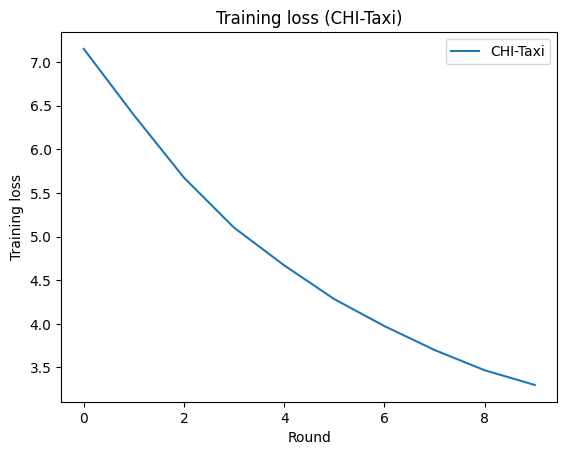
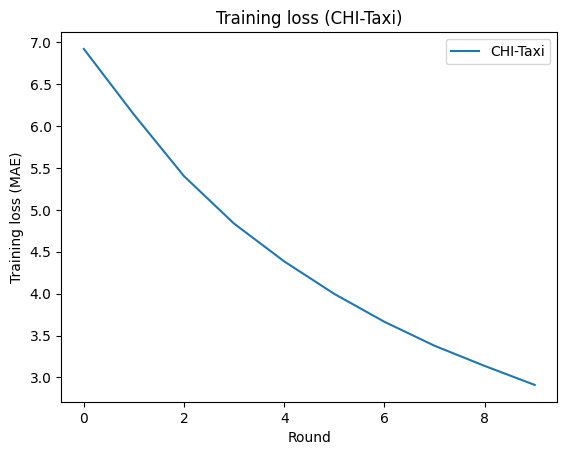
final baseline

diff --git a/test.py b/test.py
@@ -1,13 +1,12 @@
 """
 Federated LSTM-DSTGCRN — fixed per-client node-subset handling.
+Extended baseline to (1) log both MAE and RMSE and (2) optionally apply
+multi-head temporal self-attention before the GraphConvLSTM.
 
-How this fix works:
-- Global model has num_nodes = full N (all columns in trip CSV).
-- Clients are assigned node subsets (indices into 0..N-1).
-- Each client's dataset returns windows shaped [T_in, N_sub, F].
-- Before passing a batch to the model, we pad it to [B, T_in, N_full, F],
-  placing the client's node columns into their indices. All other node columns are zeros.
-- This lets every client and the server use identical model shapes so FedAvg aggregation works.
+Run example:
+python federated_lstm_dstgcrn_baseline.py --trip_csv CHI-taxi/tripdata_full.csv \
+  --dataset CHI-Taxi --rounds 10 --clients 3 --tin 12 --tout 3 \
+  --epochs_per_round 2 --batch_size 16 --use_attention 1
 """
 from __future__ import annotations
 import os, copy, math, json, argparse, random
@@ -61,6 +60,28 @@ class GraphConv(nn.Module):
         return self.lin(x_mp)
 
 # ================================================================
+# Optional: Multi-head temporal self-attention (per node)
+# ================================================================
+class TemporalMHA(nn.Module):
+    """Applies MHA along time for each node independently.
+    Input  x: [B,T,N,C] -> output [B,T,N,C]
+    Uses nn.MultiheadAttention with batch_first=True.
+    """
+    def __init__(self, dim: int, num_heads: int = 4, dropout: float = 0.0):
+        super().__init__()
+        self.mha = nn.MultiheadAttention(embed_dim=dim, num_heads=num_heads,
+                                         dropout=dropout, batch_first=True)
+        self.ln = nn.LayerNorm(dim)
+
+    def forward(self, x: torch.Tensor) -> torch.Tensor:
+        B, T, N, C = x.shape
+        x_ = x.permute(0, 2, 1, 3).reshape(B * N, T, C)  # [B*N,T,C]
+        out, _ = self.mha(x_, x_, x_, need_weights=False)
+        out = self.ln(out + x_)
+        out = out.reshape(B, N, T, C).permute(0, 2, 1, 3)  # [B,T,N,C]
+        return out
+
+# ================================================================
 # GraphConvLSTM cell
 # ================================================================
 class GraphConvLSTMCell(nn.Module):
@@ -95,11 +116,16 @@ class LSTMDSTGCRN(nn.Module):
         horizon: int = 3,
         num_layers: int = 1,
         emb_dim: int = 16,
+        use_attention: bool = False,
+        attn_heads: int = 4,
     ):
         super().__init__()
         self.num_nodes = num_nodes
         self.horizon = horizon
         self.adaptiveA = AdaptiveAdjacency(num_nodes, emb_dim)
+        self.use_attention = use_attention
+        if use_attention:
+            self.attn = TemporalMHA(dim=input_dim, num_heads=attn_heads)
 
         cells = []
         for l in range(num_layers):
@@ -115,12 +141,16 @@ class LSTMDSTGCRN(nn.Module):
             "cells": self.cells,
             "proj": self.proj,
         }
+        if use_attention:
+            self.modules_to_integrate["attn"] = self.attn
 
     def forward(self, x):
         # x: [B,T,N,C]
         B, T, N, C = x.shape
-        # model expects N == self.num_nodes
         assert N == self.num_nodes, f"Input N={N} but model expects {self.num_nodes}"
+        if self.use_attention:
+            x = self.attn(x)  # temporal self-attention per node
+
         A = self.adaptiveA()  # [N,N]
 
         hs = [x.new_zeros(B, N, c.hidden_dim) for c in self.cells]
@@ -243,18 +273,33 @@ def pad_batch_to_full(x_sub: torch.Tensor, subset_idx: List[int], N_full: int):
     return x_full, mask
 
 # ================================================================
-# Train / Eval helpers (adjusted to accept subset padding)
+# Train / Eval helpers (now compute MAE & RMSE)
 # ================================================================
+def _masked_mae(y_hat, y, mask=None):
+    if mask is None:
+        return (y_hat - y).abs().mean()
+    else:
+        abs_diff = (y_hat - y).abs() * mask
+        return abs_diff.sum() / mask.sum().clamp_min(1.0)
+
+
+def _masked_rmse(y_hat, y, mask=None):
+    if mask is None:
+        return torch.sqrt(((y_hat - y) ** 2).mean())
+    else:
+        sq = ((y_hat - y) ** 2) * mask
+        return torch.sqrt(sq.sum() / mask.sum().clamp_min(1.0))
+
+
 def train_one_epoch(model, loader, optimizer, device, subset_idx=None, N_full=None):
     model.train()
-    total_abs = 0.0
-    total_count = 0.0
+    total_loss = 0.0
+    total_count = 0
 
     for x, y in loader:
         if subset_idx is not None:
             x_full, mask = pad_batch_to_full(x, subset_idx, N_full)
             y_full, _ = pad_batch_to_full(y, subset_idx, N_full)
-            # Fix mask time dimension
             if mask.shape[1] != y_full.shape[1]:
                 mask = mask[:, :y_full.shape[1], :, :]
             x, y, mask = to_device(x_full, device), to_device(y_full, device), to_device(mask, device)
@@ -264,34 +309,28 @@ def train_one_epoch(model, loader, optimizer, device, subset_idx=None, N_full=No
 
         optimizer.zero_grad()
         y_hat = model(x)
-
-        if mask is None:
-            loss = F.l1_loss(y_hat, y)
-        else:
-            abs_diff = (y_hat - y).abs() * mask
-            loss = abs_diff.sum() / mask.sum()
-
+        loss = _masked_mae(y_hat, y, mask)
         loss.backward()
         nn.utils.clip_grad_norm_(model.parameters(), 5.0)
         optimizer.step()
 
-        total_abs += loss.item() * x.size(0)
+        total_loss += loss.item() * x.size(0)
         total_count += x.size(0)
 
-    return total_abs / total_count
+    return total_loss / max(total_count, 1)
 
 
 @torch.no_grad()
 def evaluate(model, loader, device, subset_idx=None, N_full=None):
     model.eval()
-    total_abs = 0.0
-    total_count = 0.0
+    total_mae = 0.0
+    total_rmse = 0.0
+    total_batches = 0
 
     for x, y in loader:
         if subset_idx is not None:
             x_full, mask = pad_batch_to_full(x, subset_idx, N_full)
             y_full, _ = pad_batch_to_full(y, subset_idx, N_full)
-            # Fix mask time dimension to match y_full / y_hat
             if mask.shape[1] != y_full.shape[1]:
                 mask = mask[:, :y_full.shape[1], :, :]
             x, y, mask = to_device(x_full, device), to_device(y_full, device), to_device(mask, device)
@@ -300,15 +339,15 @@ def evaluate(model, loader, device, subset_idx=None, N_full=None):
             x, y = to_device(x, device), to_device(y, device)
 
         y_hat = model(x)
-        if mask is None:
-            total_abs += (y_hat - y).abs().sum().item()
-            total_count += torch.prod(torch.tensor(y.shape)).item()
-        else:
-            abs_diff = (y_hat - y).abs() * mask
-            total_abs += abs_diff.sum().item()
-            total_count += mask.sum().item()
+        mae = _masked_mae(y_hat, y, mask)
+        rmse = _masked_rmse(y_hat, y, mask)
+        total_mae += mae.item()
+        total_rmse += rmse.item()
+        total_batches += 1
 
-    return total_abs / total_count if total_count > 0 else float('nan')
+    if total_batches == 0:
+        return {"mae": float("nan"), "rmse": float("nan")}
+    return {"mae": total_mae / total_batches, "rmse": total_rmse / total_batches}
 
 
 # ================================================================
@@ -318,6 +357,7 @@ def _copy_group(dst: nn.Module, src: nn.Module, group_name: str):
     dst_group = dst.modules_to_integrate[group_name]
     src_group = src.modules_to_integrate[group_name]
     dst_group.load_state_dict(src_group.state_dict())
+
 
 def selective_integration(local_model, global_model, val_loader, device, subset_idx: Optional[List[int]] = None, N_full: Optional[int] = None, groups=None):
     if groups is None:
@@ -330,7 +370,8 @@ def selective_integration(local_model, global_model, val_loader, device, subset_
     for g in groups:
         cand = copy.deepcopy(base)
         _copy_group(cand, global_model, g)
-        loss = evaluate(cand, val_loader, device, subset_idx=subset_idx, N_full=N_full)
+        metrics = evaluate(cand, val_loader, device, subset_idx=subset_idx, N_full=N_full)
+        loss = metrics["mae"]
         if loss < best_loss:
             best_loss, best_group = loss, g
 
@@ -353,7 +394,6 @@ class FLClient:
         self.cid = cid
         self.device = device
         self.cfg = cfg
-        # Each client **creates a model with full node count** to match server/global shape
         self.model = model_fn().to(device)
         self.train_loader = DataLoader(train_ds, batch_size=cfg.batch_size, shuffle=True, collate_fn=collate_batch)
         self.val_loader   = DataLoader(val_ds,   batch_size=cfg.batch_size, shuffle=False, collate_fn=collate_batch)
@@ -365,7 +405,6 @@ class FLClient:
         self.model.load_state_dict(global_model.state_dict())
 
     def integrate(self, global_model):
-        # selective integration uses validation loader but pads batches before eval
         self.model = selective_integration(self.model, global_model, self.val_loader, self.device, subset_idx=self.subset_idx, N_full=self.N_full)
 
     def train_local(self):
@@ -380,21 +419,20 @@ class FLClient:
     def n_test(self):  return len(self.test_loader.dataset)
 
     @torch.no_grad()
-    def test_mae(self):
+    def test_metrics(self):
         return evaluate(self.model, self.test_loader, self.device, subset_idx=self.subset_idx, N_full=self.N_full)
 
     @torch.no_grad()
-    def train_loss_eval(self):
+    def train_metrics(self):
         return evaluate(self.model, self.train_loader, self.device, subset_idx=self.subset_idx, N_full=self.N_full)
 
 class FLServer:
-    def __init__(self, model_fn, clients: List[FLClient], N_full: int):
+    def __init__(self, model_fn, N_full: int):
         self.global_model = model_fn()
-        self.clients = clients
         self.N_full = N_full
 
-    def distribute(self):
-        for c in self.clients:
+    def distribute(self, clients: List[FLClient]):
+        for c in clients:
             c.set_params_from(self.global_model)
 
     def aggregate_fedavg(self, states: List[Tuple[Dict, int]]):
@@ -417,6 +455,9 @@ def run_federated(
     device: str = None,
     save_dir: str = "./ckpts",
     epochs_per_round: int = 2,
+    batch_size: int = 16,
+    use_attention: int = 0,
+    attn_heads: int = 3,
 ):
     os.makedirs(save_dir, exist_ok=True)
     set_seed(42)
@@ -424,7 +465,6 @@ def run_federated(
 
     # infer N (nodes) and build node index list [0..N-1]
     tmp = pd.read_csv(trip_csv, nrows=1)
-    # assume 'timestamp' column present
     node_cols = [c for c in tmp.columns if c != "timestamp"]
     N_full = len(node_cols)
     node_indices = list(range(N_full))
@@ -432,12 +472,12 @@ def run_federated(
     # round-robin split nodes among clients
     chunks = [node_indices[i::num_clients] for i in range(num_clients)]
 
-    # model factory (input_dim=6 features as built in loader)
     def model_fn():
         return LSTMDSTGCRN(num_nodes=N_full, input_dim=6, hidden_dim=64,
-                           output_dim=1, horizon=output_len, num_layers=1, emb_dim=16)
+                           output_dim=1, horizon=output_len, num_layers=1, emb_dim=16,
+                           use_attention=bool(use_attention), attn_heads=attn_heads)
 
-    # build clients (each keeps only its node subset in datasets but creates full-size models)
+    # build clients
     clients: List[FLClient] = []
     for cid, subset in enumerate(chunks):
         full_ds = TripWeatherDataset(trip_csv, input_len, output_len, stride=1, node_subset=subset)
@@ -450,37 +490,45 @@ def run_federated(
         tr, va, te = torch.utils.data.random_split(
             full_ds, [n_tr, n_va, n_te], generator=torch.Generator().manual_seed(123 + cid)
         )
-        cfg = ClientConfig(id=cid, epochs=epochs_per_round, batch_size=32, lr=1e-3)
+        cfg = ClientConfig(id=cid, epochs=epochs_per_round, batch_size=batch_size, lr=1e-3)
         clients.append(FLClient(cid, model_fn, tr, va, te, cfg, device, subset_idx=subset, N_full=N_full))
 
-    server = FLServer(model_fn, clients, N_full=N_full)
+    server = FLServer(model_fn, N_full=N_full)
 
     # logs for paper-style
-    global_log = []     # [{"round": r, "global_mae": .., "global_loss": ..}, ...]
+    global_log = []     # [{round, global_mae, global_rmse, global_train_mae, global_train_rmse}, ...]
 
     for r in range(num_rounds):
         print(f"\n===== Round {r+1}/{num_rounds} | {dataset_name} =====")
 
         # send current global model
-        server.distribute()
+        server.distribute(clients)
 
         # client-side selective integration + local training
         for c in clients:
             c.integrate(server.global_model)
             c.train_local()
 
-        # Weighted global training loss (evaluate on each client's TRAIN set)
-        train_losses = [(c.train_loss_eval(), c.n_train()) for c in clients]
-        total_train = sum(n for _, n in train_losses)
-        global_train_loss = sum(l * n for l, n in train_losses) / total_train
+        # Weighted global training metrics (evaluate on each client's TRAIN set)
+        train_metrics = [(c.train_metrics(), c.n_train()) for c in clients]
+        total_train = sum(n for _, n in train_metrics)
+        global_train_mae = sum(m["mae"] * n for m, n in train_metrics) / total_train
+        global_train_rmse = sum(m["rmse"] * n for m, n in train_metrics) / total_train
 
-        # Evaluate test MAE per client
-        test_results = [(c.test_mae(), c.n_test()) for c in clients]
+        # Evaluate test metrics per client
+        test_results = [(c.test_metrics(), c.n_test()) for c in clients]
         total_test = sum(n for _, n in test_results)
-        global_mae = sum(mae * n for mae, n in test_results) / total_test
+        global_mae = sum(m["mae"] * n for m, n in test_results) / total_test
+        global_rmse = sum(m["rmse"] * n for m, n in test_results) / total_test
 
-        print(f"Global MAE: {global_mae:.4f} | Global train loss: {global_train_loss:.4f}")
-        global_log.append({"round": r, "global_mae": float(global_mae), "global_loss": float(global_train_loss)})
+        print(f"Global MAE: {global_mae:.4f} | Global RMSE: {global_rmse:.4f} | Train MAE: {global_train_mae:.4f}")
+        global_log.append({
+            "round": r,
+            "global_mae": float(global_mae),
+            "global_rmse": float(global_rmse),
+            "global_train_mae": float(global_train_mae),
+            "global_train_rmse": float(global_train_rmse),
+        })
 
         # FedAvg aggregation (weighted by train samples)
         states = [(c.state_dict(), c.n_train()) for c in clients]
@@ -492,23 +540,27 @@ def run_federated(
         json.dump(global_log, f, indent=2)
     print(f"Saved global results to {json_path}")
 
-    # Plot and save the single loss curve for this dataset
+    # Plot and save the curves for this dataset
     rounds = [r["round"] for r in global_log]
-    losses = [r["global_loss"] for r in global_log]
+    maes = [r["global_mae"] for r in global_log]
+    rmses = [r["global_rmse"] for r in global_log]
+
     plt.figure()
-    plt.plot(rounds, losses, label=f"{dataset_name}")
+    plt.plot(rounds, maes, label=f"{dataset_name} MAE")
+    plt.plot(rounds, rmses, label=f"{dataset_name} RMSE")
     plt.xlabel("Round")
-    plt.ylabel("Training loss")
-    plt.title(f"Training loss ({dataset_name})")
+    plt.ylabel("Metric")
+    plt.title(f"Global Metrics ({dataset_name})")
     plt.legend()
-    png_path = os.path.join(save_dir, f"{dataset_name}_loss_curve.png")
+    png_path = os.path.join(save_dir, f"{dataset_name}_metrics.png")
     plt.savefig(png_path, bbox_inches="tight")
     plt.close()
-    print(f"Saved loss curve to {png_path}")
+    print(f"Saved metrics curves to {png_path}")
 
 # ================================================================
 # CLI
 # ================================================================
+
 def main():
     ap = argparse.ArgumentParser()
     ap.add_argument("--trip_csv", required=True, help="Path to *tripdata*_full.csv (e.g., 'CHI-taxi/tripdata_full.csv')")
@@ -518,6 +570,9 @@ def main():
     ap.add_argument("--tin", type=int, default=12)
     ap.add_argument("--tout", type=int, default=3)
     ap.add_argument("--epochs_per_round", type=int, default=2)
+    ap.add_argument("--batch_size", type=int, default=16)
+    ap.add_argument("--use_attention", type=int, default=0, help="1 to enable temporal MHA pre-encoder")
+    ap.add_argument("--attn_heads", type=int, default=4)
     ap.add_argument("--save_dir", default="./ckpts")
     args = ap.parse_args()
 
@@ -529,6 +584,9 @@ def main():
         input_len=args.tin,
         output_len=args.tout,
         epochs_per_round=args.epochs_per_round,
+        batch_size=args.batch_size,
+        use_attention=args.use_attention,
+        attn_heads=args.attn_heads,
         save_dir=args.save_dir,
     )
 
